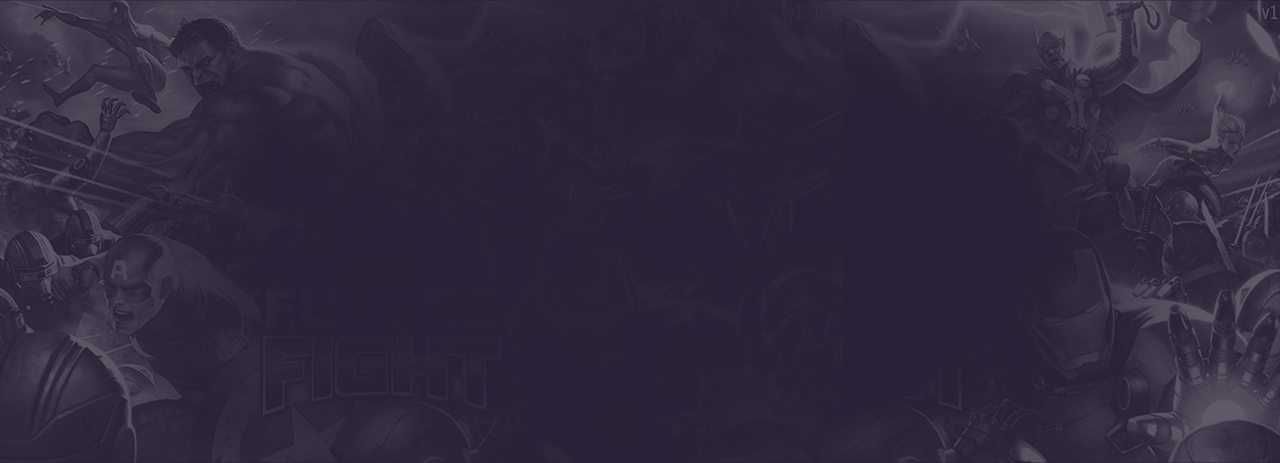
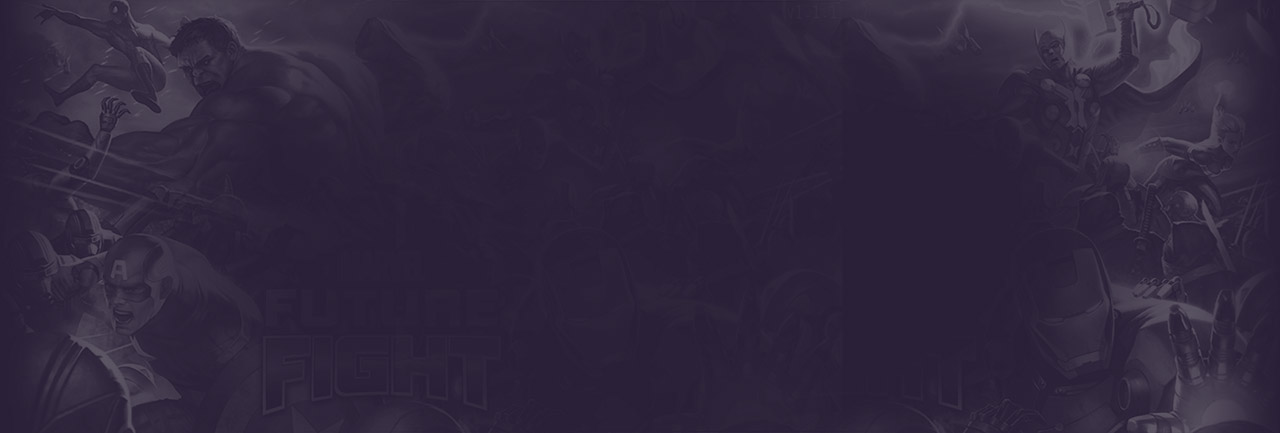
樣式與圖片調整

diff --git a/static/css/main.css b/static/css/main.css
@@ -165,13 +165,13 @@ a.formBtn:hover, .formBtn:hover, .btn-default:hover, .btn-primary:hover { color:
 
 .topbar .topright .help { margin-right: 20px; }
 
-.topbar .topright .info { margin-right: 0px; color: #fbf2e0; }
+.topbar .topright .info { margin-right: 10px; color: #fbf2e0; }
 
 .topbar .topright .info span { padding: 0px 10px; border-right: 1px solid #443063; }
 
 .topbar .topright .info span:last-child { border-right: none; }
 
-.topbar .topright .info .link { display: inline-block; -webkit-animation-iteration-count: infinite; -webkit-animation-duration: 2s; animation-iteration-count: infinite; animation-duration: 2s; margin: 0px 3px; }
+.topbar .topright .info .link { display: inline-block; -webkit-animation-iteration-count: infinite; -webkit-animation-duration: 2s; animation-iteration-count: infinite; animation-duration: 2s; margin: 0px 10px; }
 
 .topbar .topright .info .link:hover { text-decoration: underline; }
 
@@ -195,7 +195,7 @@ a.formBtn:hover, .formBtn:hover, .btn-default:hover, .btn-primary:hover { color:
 
 .nav .logo img { width: 100%; display: block; }
 
-.nav .menu { float: right; width: calc( 100% - 300px); }
+.nav .menu { float: right; width: calc( 100% - 300px); max-width: 75%; }
 
 .nav .menu .mainmenu { text-align: right; margin: 0px 0px 0px 50px; }
 

diff --git a/static/sass/main.scss b/static/sass/main.scss
@@ -320,7 +320,7 @@ a.formBtn, .formBtn, .btn-default, .btn-primary{
             margin-right: 20px;
         }
         .info{
-            margin-right: 0px;
+            margin-right: 10px;
             color: $fontColor_yellow;
             span{
                 padding: 0px 10px;
@@ -335,7 +335,7 @@ a.formBtn, .formBtn, .btn-default, .btn-primary{
                 -webkit-animation-duration: 2s;
                 animation-iteration-count: infinite;
                 animation-duration: 2s;
-                margin: 0px 3px;
+                margin: 0px 10px;
                 &:hover{
                     text-decoration: underline;
                 }
@@ -409,6 +409,7 @@ a.formBtn, .formBtn, .btn-default, .btn-primary{
     .menu{
         float:right;
         width: calc( 100% - 300px);
+        max-width: 75%;
         .mainmenu{
             text-align: right;
             margin: 0px 0px 0px 50px;

diff --git a/static/css/pages.css b/static/css/pages.css
@@ -4,7 +4,7 @@
 --------------------------------------------------- */
 .mainbox { position: relative; }
 
-.mainad { background-color: #110e1b; }
+.mainad { background-color: #000; }
 
 .mainad .ad_slider { width: 1280px; height: 410px; margin: 0px auto; text-align: center; }
 
@@ -96,7 +96,7 @@
 
 .index_product .product_list:after { content: ''; display: table; clear: both; }
 
-.index_casino { background: url(img/bg_casino.jpg) no-repeat center center #262031; background-size: auto 100%; }
+.index_casino { background: url(img/bg_casino.jpg) no-repeat center center #2a2038; background-size: auto 100%; }
 
 .index_casino .title { text-align: center; margin-bottom: 30px; }
 

diff --git a/static/sass/pages.scss b/static/sass/pages.scss
@@ -8,7 +8,8 @@
 }
 .mainad{
     // position: relative;
-    background-color: #110e1b;
+    // background-color: #110e1b;
+    background-color: #000;
     .ad_slider{
         width: 1280px;
         height: 410px;
@@ -271,7 +272,7 @@
     }
 }
 .index_casino{
-    background: url(img/bg_casino.jpg) no-repeat center center #262031;
+    background: url(img/bg_casino.jpg) no-repeat center center #2a2038;
     background-size: auto 100%;
     // @media only screen and (max-width:1180px){
     //     background-size: auto 100%;
